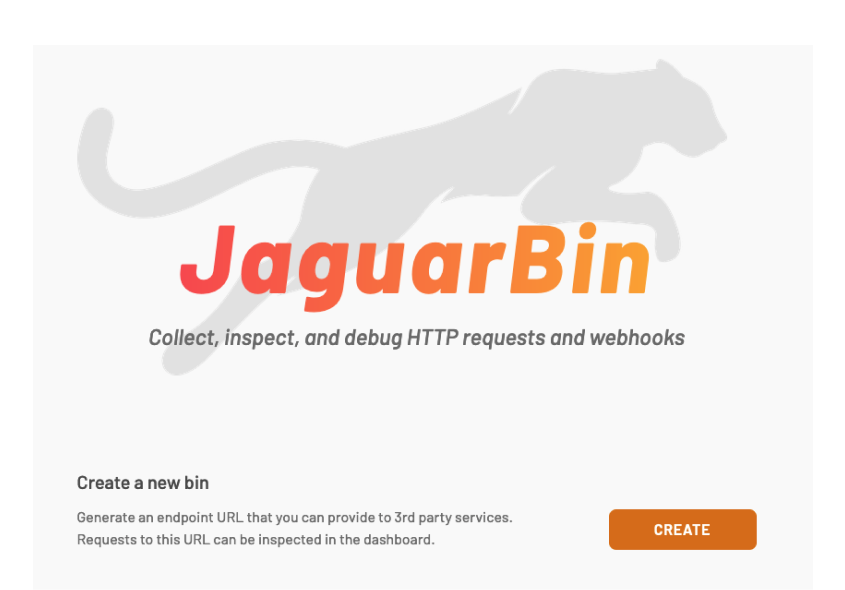
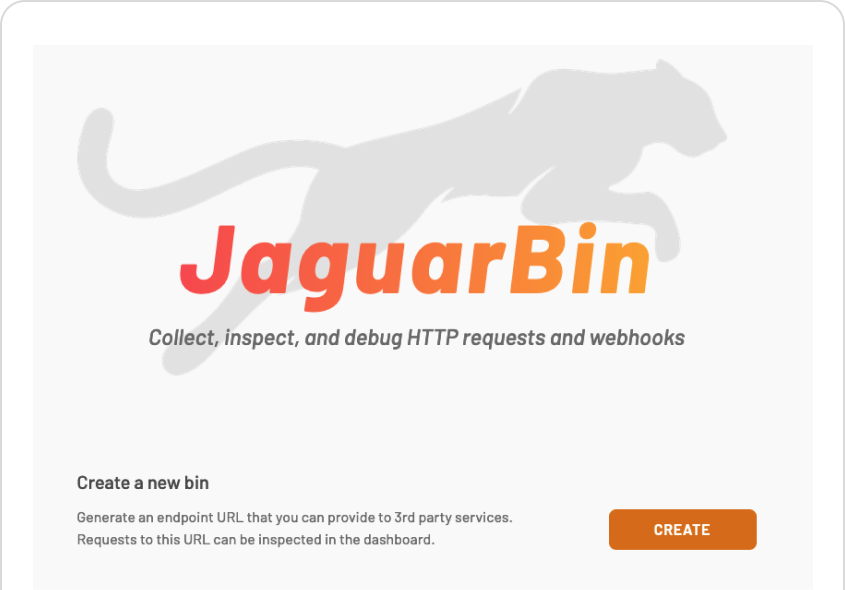
feat: card formatting

Changed region(s): [[0.0, 0.0, 1.0, 1.0]]

diff --git a/index.html b/index.html
@@ -91,7 +91,7 @@
           
           <footer>
             <p id="description">
-              Seamless is a CI/CD framework that streamlines the development and deployment applications. It automates the sourcing, testing, building, and deployment of code, enabling developers to deliver software quickly and reliably.
+              Seamless is a CI/CD framework that streamlines the development of applications. It automates the sourcing, testing, building, and deployment of code, enabling developers to deliver software quickly and reliably.
             </p>
           </footer>
 
